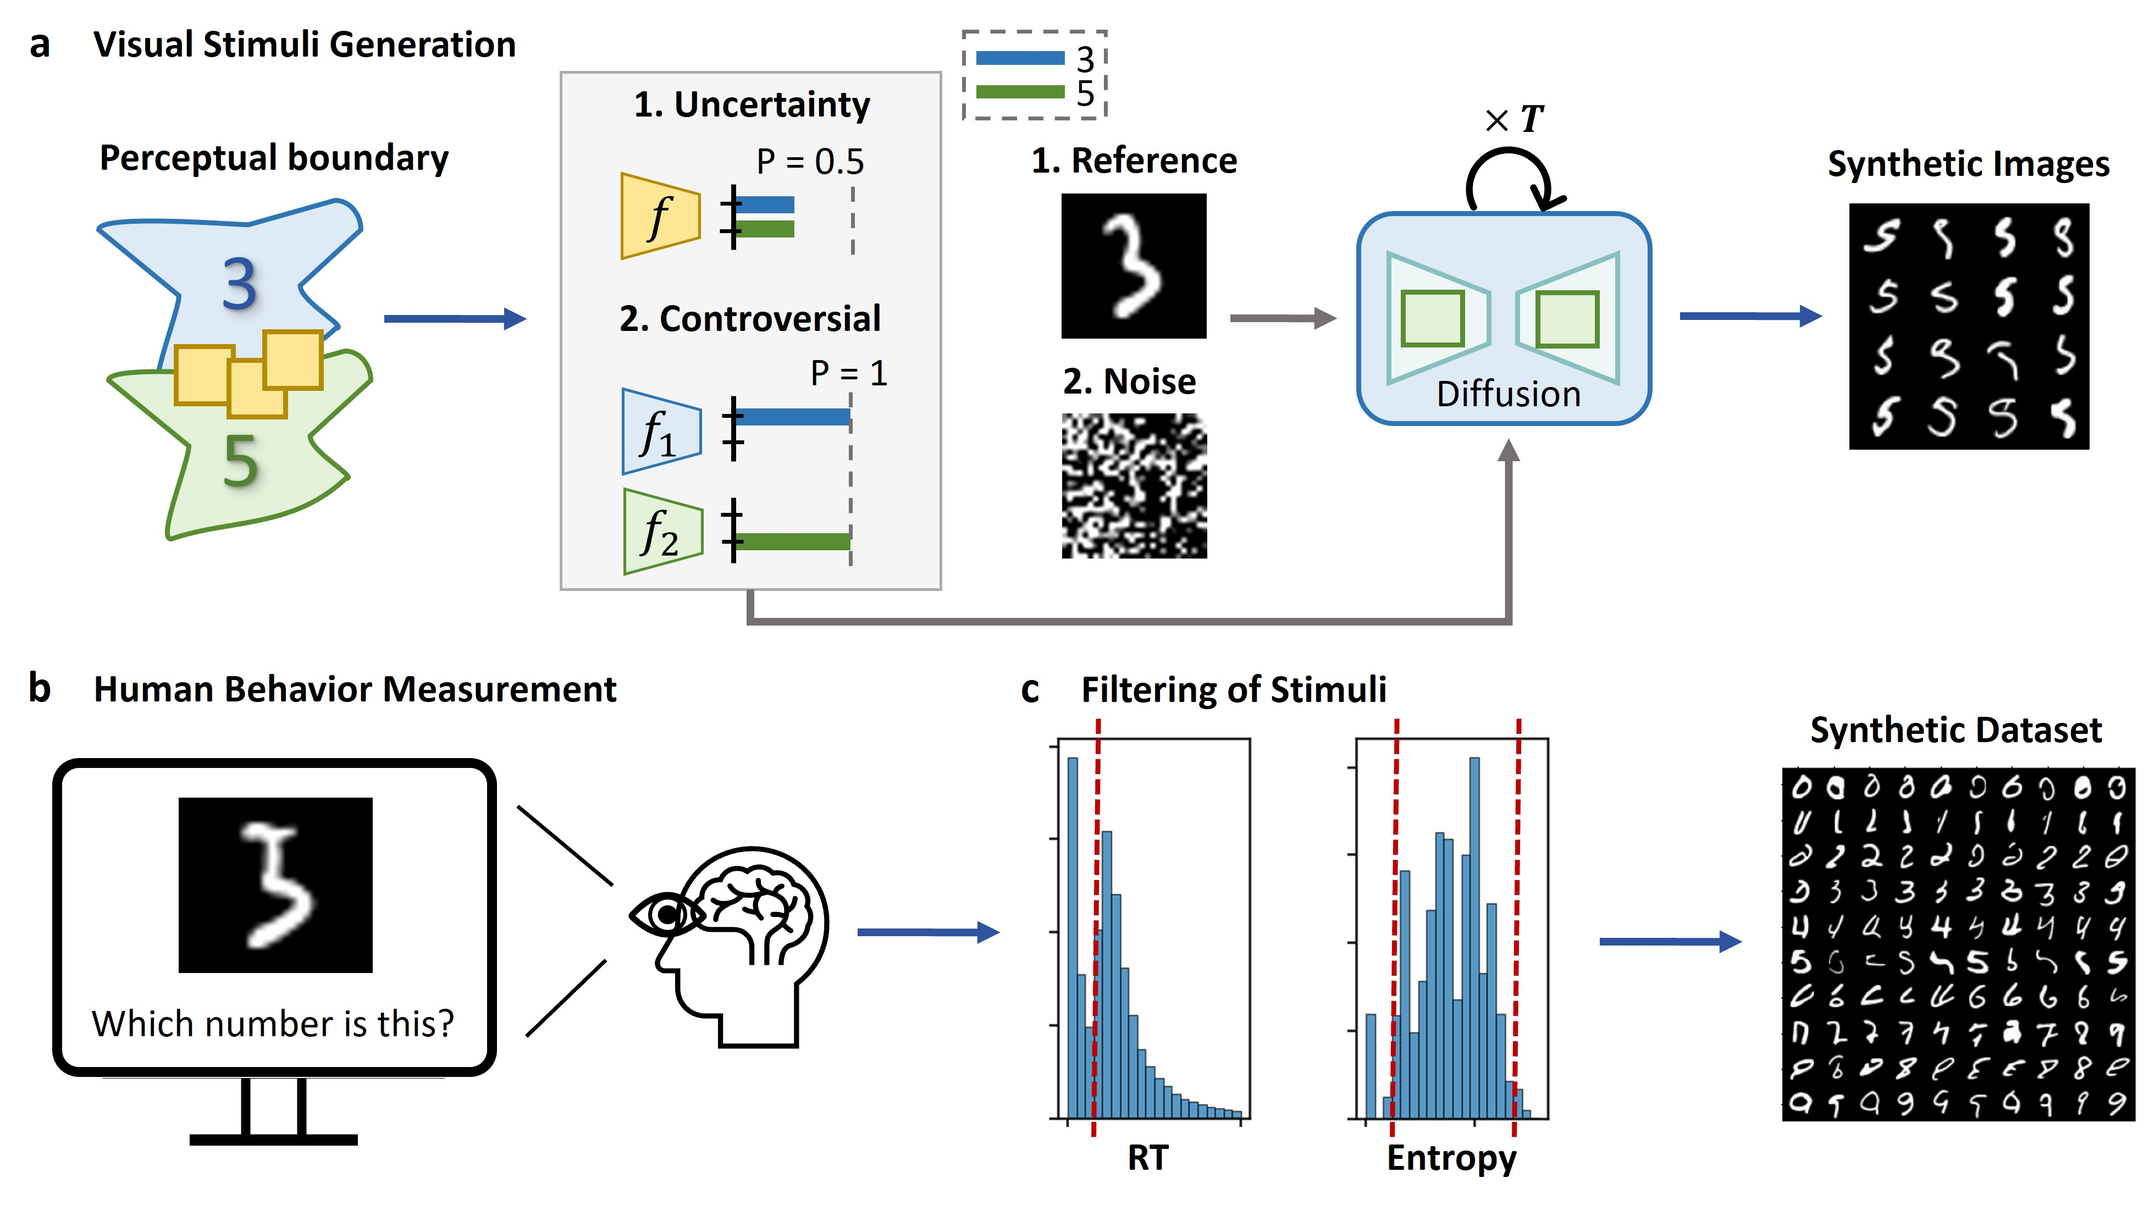
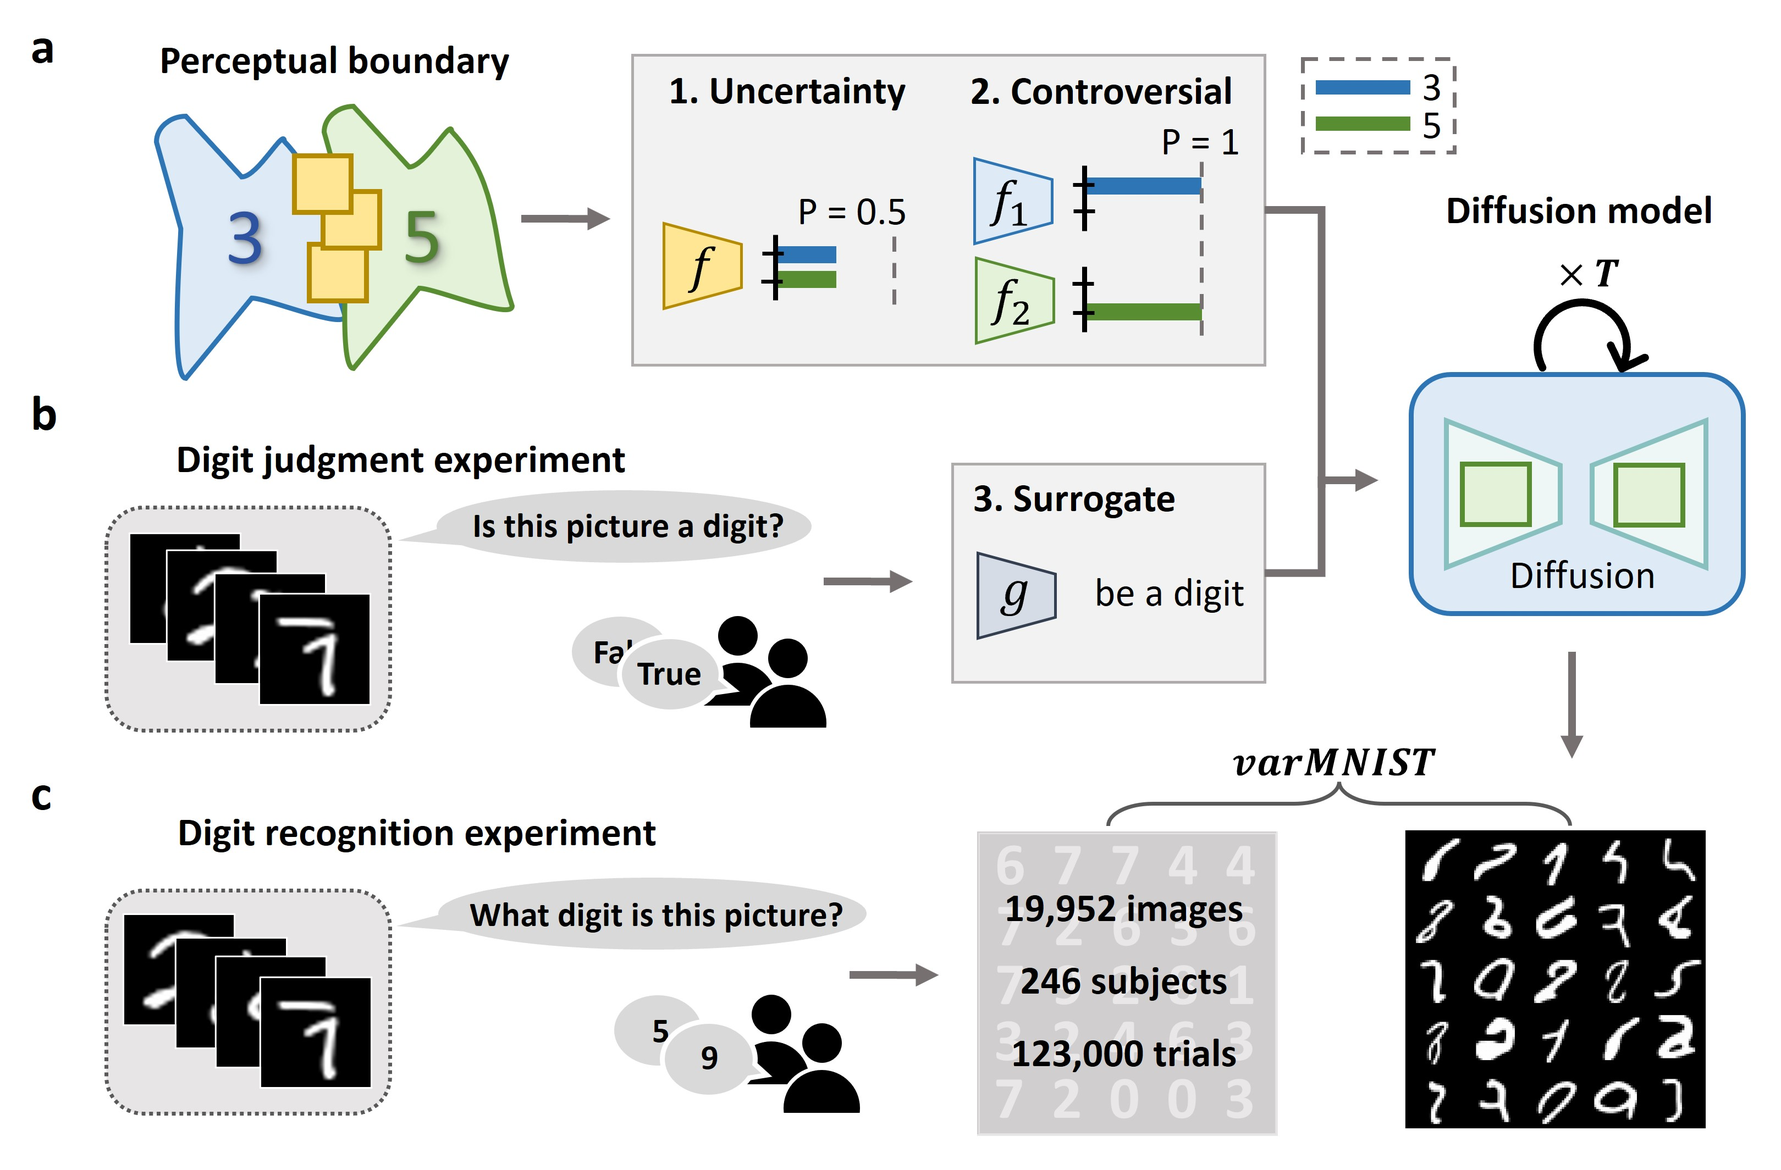
Site updated: 2024-12-06 11:43:37

diff --git a/varMNIST/index.html b/varMNIST/index.html
@@ -23,7 +23,7 @@
 
     <!--Open Graph Title-->
     
-        <meta property="og:title" content="Synthesizing Images on Perceptual Boundaries of ANNs for Uncovering and Modulating Individual Human Percepts"/>
+        <meta property="og:title" content="Synthesizing Images on Perceptual Boundaries of ANNs for Uncovering and Manipulating Human Perceptual Variability"/>
     
 
     <!--Open Graph Description-->
@@ -55,7 +55,7 @@
 
     <!-- Title -->
     
-    <title>Synthesizing Images on Perceptual Boundaries of ANNs for Uncovering and Modulating Individual Human Percepts - Hi, this is Jiachen</title>
+    <title>Synthesizing Images on Perceptual Boundaries of ANNs for Uncovering and Manipulating Human Perceptual Variability - Hi, this is Jiachen</title>
 
     <!-- Bootstrap Core CSS -->
     <link href="//maxcdn.bootstrapcdn.com/bootstrap/3.3.6/css/bootstrap.min.css" rel="stylesheet"/>
@@ -159,7 +159,7 @@
         <div class="row">
             <div class="col-lg-8 col-lg-offset-2 col-md-10 col-md-offset-1">
                 <div class="post-heading">
-                    <h1>Synthesizing Images on Perceptual Boundaries of ANNs for Uncovering and Modulating Individual Human Percepts</h1>
+                    <h1>Synthesizing Images on Perceptual Boundaries of ANNs for Uncovering and Manipulating Human Perceptual Variability</h1>
                     
                     <span class="meta">
                         <!-- Date and Author -->
@@ -188,96 +188,78 @@
             <!-- Post Main Content -->
             <div class="col-lg-8 col-lg-offset-2 col-md-10 col-md-offset-1">
                 <p>Authors: Chen Wei*, Chi Zhang*, <strong>Jiachen Zou</strong>, Haotian Deng, Dietmar Heinke, Quanying Liu<br><small>*Chen Wei and Chi Zhang contributed equally to this work.</small><br>Date: October 2, 2024<br>Supervisor: Quanying Liu, Dietmar Heinke</p>
-<p><img src="/img/var_fig1.jpg" alt="varMNIST Motivation"></p>
-<h1 id="Introduction"><a href="#Introduction" class="headerlink" title="Introduction"></a>Introduction</h1><p><strong>Motivation:</strong><br>Human perception varies with ambiguous stimuli, and ANNs struggle to capture this variability. Understanding it is key to predicting decision-making in uncertain situations. This study explores whether generating images based on ANN perceptual boundaries can reveal differences in human perception.</p>
-<p><strong>Method:</strong><br>We developed a model that samples ANN boundaries to create images that induce varied human responses. These include stimuli that highlight perceptual differences and adversarial perturbations that subtly influence decisions. We tested these in a large-scale experiment, creating the varMNIST dataset.</p>
+<p><img src="/img/var_fig1.png" alt="varMNIST Motivation"></p>
+<h1 id="Introduction"><a href="#Introduction" class="headerlink" title="Introduction"></a>Introduction</h1><p><strong>Motivation:</strong><br>Human perception varies with ambiguous stimuli, and ANNs struggle to capture this variability. Understanding it is key to predicting individual perception in uncertain situations. This study explores whether generating images based on ANN perceptual boundaries can reveal and manipulate human perceptual variability.</p>
+<p><strong>Method:</strong><br>We present a paradigm for studying human perceptual variability through image generation: <em>1) Generating &amp; labeling</em>: Images sampled from the decision boundaries of ANNs are used in human behavioral experiments to construct a high-variability dataset, varMNIST. <em>2) Predicting</em>: Human behavioral data are used to finetune models, aligning them with human perceptual variability at both the group level and individual level. <em>3) Manipulating</em>: Individual finetuned models are leveraged as adversarial classifiers to generate new images that amplify perceptual differences between individuals.</p>
 <p><strong>Contribution:</strong>  </p>
 <ul>
-<li>Created a model generating images that provoke diverse human perceptions, forming the varMNIST dataset.  </li>
-<li>Improved predictions of human decision-making by aligning ANN variability with human data.  </li>
-<li>Uncovered individual differences in perception, supporting personalized AI development.</li>
+<li>A novel generative approach to probe human perception.  </li>
+<li>Aligning human and ANN perceptual variability.  </li>
+<li>Revealing and manipulating individual decisions.</li>
 </ul>
-<h1 id="Method"><a href="#Method" class="headerlink" title="Method"></a>Method</h1><p><strong>Perceptual Boundaries of ANNs:</strong><br>We sampled images along ANN decision boundaries to induce high perceptual variability. Using two methods:</p>
+<!-- This adds space between the figures -->
+<div style="margin-top: 10px;"></div>
+
+<h1 id="Collecting-Human-Perceptual-Variability"><a href="#Collecting-Human-Perceptual-Variability" class="headerlink" title="Collecting Human Perceptual Variability"></a>Collecting Human Perceptual Variability</h1><p><strong>Generating images by sampling from the perceptual boundary of ANNs:</strong><br>We sampled images along ANN decision boundaries to induce high perceptual variability using two methods:</p>
 <ul>
 <li><em>Uncertainty Guidance</em>: Maximizes entropy in an ANN’s classification to generate ambiguous images near its decision boundary.</li>
 <li><em>Controversial Guidance</em>: Maximizes the KL divergence between two ANN models, producing images that highlight differences in their classifications.</li>
 </ul>
-<p><strong>Diffusion Model Regularization:</strong><br>To ensure natural-looking images, we used a classifier-free diffusion model that introduces prior information from the MNIST dataset. A reference-constrained method, guided by MSE loss, prevents mode collapse and ensures diverse, recognizable images.</p>
-<p><strong>Human Experiments &amp; Dataset Construction:</strong><br>We filtered generated images based on entropy and KL divergence, then tested them in a digit recognition task with human participants. Based on response times and entropy thresholds, we finalized 4,741 images that form the varMNIST dataset.</p>
+<p><strong>Improving generative quality by digit judgment surrogate:</strong><br>We conducted a digit judgment experiment, using participants’ judgments on whether generated images looked like handwritten digits to train a digit judgment proxy, which is then used to guide image generation.</p>
 <figure>
   <img src="/img/var_fig2.jpg" alt="framework">
-  <figcaption style="text-align: center; color: #004400; font-weight: bold;">Figure 1: The framework of constructing dataset.</figcaption>
+  <figcaption style="text-align: center; color: #004400; font-weight: bold;">Figure 1: Generating images to elicit human perceptual variability.</figcaption>
 </figure>
 
 <!-- This adds space between the figures -->
-<div style="margin-top: 30px;"></div>
-
-<h1 id="Human-Experiments-and-Behavioral-Analysis"><a href="#Human-Experiments-and-Behavioral-Analysis" class="headerlink" title="Human Experiments and Behavioral Analysis"></a>Human Experiments and Behavioral Analysis</h1><!-- This adds space between the figures -->
 <div style="margin-top: 10px;"></div>
 
-<p><strong>Entropy Distribution and Image Variability:</strong></p>
-<ul>
-<li>We used images generated by uncertainty and controversial guidance methods in digit recognition tasks. The example images in Fig.3 indicates the ability of generated images to evoke varying perceptual variability, making entropy a useful metric for image filtering.</li>
-</ul>
+<p><strong>Measuring Human Perceptual Variability by Recognition Experiment:</strong><br>We used the images synthesized using the two guidance methods, ANN perceptual boundary sampling and digit judgment surrogate, for the digit recognition human experiment.  A total of 19,952 images were used, with 123,000 trials conducted across 246 participants, resulting in the high perceptual variability dataset varMNIST.</p>
 <figure>
   <img src="/img/var_fig3.png" alt="framework">
-  <figcaption style="text-align: center; color: #004400; font-weight: bold;">Figure 2: Entropy distribution of digit recognition by human subjects.</figcaption>
+  <figcaption style="text-align: center; color: #004400; font-weight: bold;">Figure 2: Quantitative analysis of varMNIST.</figcaption>
 </figure>
 
 <!-- This adds space between the figures -->
 <div style="margin-top: 30px;"></div>
 
-<p><strong>Human vs. Model Entropy Comparison:</strong></p>
+<h1 id="Predicting-Human-Perceptual-Variability"><a href="#Predicting-Human-Perceptual-Variability" class="headerlink" title="Predicting Human Perceptual Variability"></a>Predicting Human Perceptual Variability</h1><!-- This adds space between the figures -->
+<div style="margin-top: 10px;"></div>
+
+<p><strong>Fine-tuning Models for Human Alignment:</strong></p>
 <ul>
-<li>Human response entropy correlated positively with model-predicted entropy, though the model’s predictions initially clustered near zero. After fine-tuning with human behavioral data, the correlation improved significantly, aligning model predictions more closely with human behavior.</li>
+<li>We used a mixed training approach to fine-tune models, combining MNIST and varMNIST datasets for group training and varMNIST-i, varMNIST, and MNIST for individual training. Fine-tuning improved model accuracy, with individual fine-tuning providing additional gains.</li>
 </ul>
-<p><strong>Response Time (RT) Analysis:</strong>  </p>
+<p><strong>Different Classifiers Show Varying Fine-tuning Performance:</strong></p>
 <ul>
-<li>A positive correlation was found between entropy and RT (Pearson’s correlation&#x3D;1.17e-17), suggesting that higher perceptual variability leads to longer decision times. This makes RT a valuable supplementary measure when filtering images for perceptual variability.</li>
+<li>Fine-tuning enhanced the performance of most classifiers, with VIT and MLP showing the largest improvements, while LRM exhibited the weakest adaptability.</li>
+</ul>
+<p><strong>Performance across Images with Varying Entropy Levels:</strong>  </p>
+<ul>
+<li>Fine-tuned models outperformed the base model across all task difficulties, with individual fine-tuning providing the most benefit for more challenging (high-entropy) samples, highlighting the model’s improved adaptability to complex stimuli.</li>
 </ul>
 <figure>
-  <img src="/img/var_fig4.jpg" alt="framework">
-  <figcaption style="text-align: center; color: #004400; font-weight: bold;">Figure 3: Quantitative analysis of behavioral measurements. (a) Positive correlation between behavior-calculated and model-predicted entropy. (b) Improvement in the correlation between behavior-calculated and model-predicted entropy after alignment. (c) Distribution of RT. (d) Positive correlation between RT and entropy.</figcaption>
+  <img src="/img/var_fig4.png" alt="framework">
+  <figcaption style="text-align: center; color: #004400; font-weight: bold;">Figure 3: Human alignment results. (a) Model accuracy comparison. (b) Classifier fine-tuning performance. (c) Human-model entropy correlation. (d) Performance across entropy levels.</figcaption>
 </figure>
 
 <!-- This adds space between the figures -->
 <div style="margin-top: 30px;"></div>
 
-<h1 id="Variability-alignment-between-humans-and-networks"><a href="#Variability-alignment-between-humans-and-networks" class="headerlink" title="Variability alignment between humans and networks"></a>Variability alignment between humans and networks</h1><p><strong>Fine-Tuning for Perceptual Alignment:</strong></p>
+<h1 id="Manipulating-human-perceptual-variablity"><a href="#Manipulating-human-perceptual-variablity" class="headerlink" title="Manipulating human perceptual variablity"></a>Manipulating human perceptual variablity</h1><p><strong>Experimental Paradigm:</strong></p>
 <ul>
-<li>ANN models had low accuracy (0.2802) on varMNIST, revealing a gap in perceptual variability between humans and networks. After:<br><em>Population-Level Fine-Tuning</em> with data from all participants, accuracy improved to 0.5569.<br><em>Subject-Level Fine-Tuning</em> with individual data, accuracy increased to 0.6230, highlighting individual perceptual differences.</li>
+<li>We tested if fine-tuned individual models could amplify perceptual differences and guide decisions. In the first round, 500 varMNIST samples were used to fine-tune individual models. In the second round, controversial stimuli generated from these models were presented to pairs of participants to evaluate if they could guide decision directions.</li>
+</ul>
+<p><strong>Manipulation Results:</strong></p>
+<ul>
+<li><p><em>Guidance Outcome</em> (success, bias, or failure): Individual fine-tuning improved the success rate by 3%, reduced failures by 4%, and increased bias by 1% compared to varMNIST, even with a small sample size.</p>
+</li>
+<li><p><em>Targeted Ratio</em> (the proportion of trials where participants’ choices aligned with the guidance direction): The targeted ratio improved by 12%, showing that fine-tuning enhanced the model’s ability to guide decisions more effectively and precisely.</p>
+</li>
 </ul>
 <figure>
-  <img src="/img/var_fig5.jpg" alt="framework">
-  <figcaption style="text-align: center; color: #004400; font-weight: bold;">Figure 4: Alignment of model and human behavior on the generated dataset. The x-axis labels are in the format "Training dataset (Test Dataset)", indicating that the model was trained on the "Training dataset" and the accuracy was calculated on the "Test dataset". </figcaption>
-</figure>
-
-<!-- This adds space between the figures -->
-<div style="margin-top: 30px;"></div>
-
-<p><strong>Subject Clustering Analysis:</strong></p>
-<ul>
-<li>Participants were grouped into eight clusters based on behavior similarity. Models predicted in-cluster behavior more accurately than out-cluster, confirming significant perceptual differences across participants.</li>
-</ul>
-<figure>
-  <img src="/img/var_fig6.png" alt="framework">
-  <figcaption style="text-align: center; color: #004400; font-weight: bold;">Figure 5: Subject clustering analysis. (a) Subject similarity matrix and clustering results. (b) Performance of the subject-finetuned model in predicting data from different groups.</figcaption>
-</figure>
-
-<!-- This adds space between the figures -->
-<div style="margin-top: 30px;"></div>
-
-<h1 id="Controversial-stimuli-between-subjects-unveil-individual-differences-in-perceptual-variability"><a href="#Controversial-stimuli-between-subjects-unveil-individual-differences-in-perceptual-variability" class="headerlink" title="Controversial stimuli between subjects unveil individual differences in perceptual variability"></a>Controversial stimuli between subjects unveil individual differences in perceptual variability</h1><p><strong>Generating Controversial Stimuli:</strong></p>
-<ul>
-<li>Using fine-tuned models, we generated controversial stimuli to explore individual perceptual differences. We compared:<br><em>Subject-Subject Testing</em>: Adversarial classifiers created stimuli that caused two individuals to make different decisions, highlighting their perceptual differences.<br><em>Subject-Group Testing</em>: Stimuli were generated between an individual’s fine-tuned model and a group model, revealing differences between the individual and the collective.</li>
-</ul>
-<p><strong>Disagreement Patterns:</strong> </p>
-<ul>
-<li>We identified typical patterns in controversial stimuli, called <em>disagreement patterns</em>. For instance, some subjects consistently disagreed on digits like 3 and 7, or 3 and 8. These patterns show that even in seemingly objective tasks like digit recognition, individual differences and preferences exist.</li>
-</ul>
-<figure>
-  <img src="/img/var_fig7.jpg" alt="framework">
-  <figcaption style="text-align: center; color: #004400; font-weight: bold;">Figure 6: Overview of patterns among different models in digit classification. (a) Example of disagreement patterns between different models. (b) Distribution of KL divergences between MNIST, varMNIST, and controversial samples. (c) Conceptual diagram of disagreement patterns.</figcaption>
+  <img src="/img/var_fig5.png" alt="framework">
+  <figcaption style="text-align: center; color: #004400; font-weight: bold;">Figure 4: Manipulation analysis. (a) Experiment process. (b) Guidance outcomes. (c) Guidance success rates. (d) Targeted ratios.</figcaption>
 </figure>
 
 <!-- This adds space between the figures -->
@@ -285,20 +267,11 @@
 
 <h1 id="Discussion"><a href="#Discussion" class="headerlink" title="Discussion"></a>Discussion</h1><p><strong>Key Findings:</strong>  </p>
 <ul>
-<li>We generated stimuli from ANN perceptual boundaries, effectively evoking diverse human perceptual experiences.  </li>
-<li>Controversial stimuli revealed individual differences in human perception, advancing understanding of variability between humans and AI.</li>
+<li>Eliciting Human Perceptual Variability Through Generated Samples.</li>
+<li>Achieving Individual Alignment by Predicting Human Perceptual Variability.</li>
+<li>Revealing and Manipulating Perceptual Variability Using Individual Models.</li>
 </ul>
-<p><strong>Advantages Over Prior Work:</strong>  </p>
-<ul>
-<li>Unlike previous studies that focused on either humans or ANNs, our method influences both, allowing for a more comprehensive analysis of perceptual boundaries.   </li>
-<li>The use of diffusion models increases image naturalness and sampling flexibility, enhancing human-AI perceptual alignment.</li>
-</ul>
-<p><strong>Broader Impact:</strong>  </p>
-<ul>
-<li>Our framework enables personalized perceptual modulation, making studies on human perception more efficient.  </li>
-<li>Combining controversial and adversarial stimuli with diffusion models significantly improves the generation of impactful stimuli.</li>
-</ul>
-<p><strong>Limitations and Future Work:</strong>  </p>
+<p><strong>Future Works:</strong>  </p>
 <ul>
 <li>Expanding the dataset to natural images and diverse participants will better capture human variability.  </li>
 <li>Further improvements are needed in AI-human alignment using optimal experimental design.</li>

diff --git a/archives/2024/10/index.html b/archives/2024/10/index.html
@@ -171,7 +171,7 @@
                 <div class="post-preview">
     <a href="/varMNIST/">
         <h1 class="post-title archive">
-            Synthesizing Images on Perceptual Boundaries of ANNs for Uncovering and Modulating Individual Human Percepts
+            Synthesizing Images on Perceptual Boundaries of ANNs for Uncovering and Manipulating Human Perceptual Variability
         </h1>
     </a>
     <p class="post-meta archive">

diff --git a/archives/2024/index.html b/archives/2024/index.html
@@ -171,7 +171,7 @@
                 <div class="post-preview">
     <a href="/varMNIST/">
         <h1 class="post-title archive">
-            Synthesizing Images on Perceptual Boundaries of ANNs for Uncovering and Modulating Individual Human Percepts
+            Synthesizing Images on Perceptual Boundaries of ANNs for Uncovering and Manipulating Human Perceptual Variability
         </h1>
     </a>
     <p class="post-meta archive">

diff --git a/archives/index.html b/archives/index.html
@@ -171,7 +171,7 @@
                 <div class="post-preview">
     <a href="/varMNIST/">
         <h1 class="post-title archive">
-            Synthesizing Images on Perceptual Boundaries of ANNs for Uncovering and Modulating Individual Human Percepts
+            Synthesizing Images on Perceptual Boundaries of ANNs for Uncovering and Manipulating Human Perceptual Variability
         </h1>
     </a>
     <p class="post-meta archive">

diff --git a/projects/index.html b/projects/index.html
@@ -249,7 +249,7 @@
                 <div class="post-preview">
     <a href="/varMNIST/">
         <h2 class="post-title">
-            Synthesizing Images on Perceptual Boundaries of ANNs for Uncovering and Modulating Individual Human Percepts
+            Synthesizing Images on Perceptual Boundaries of ANNs for Uncovering and Manipulating Human Perceptual Variability
         </h2>
         
     </a>
